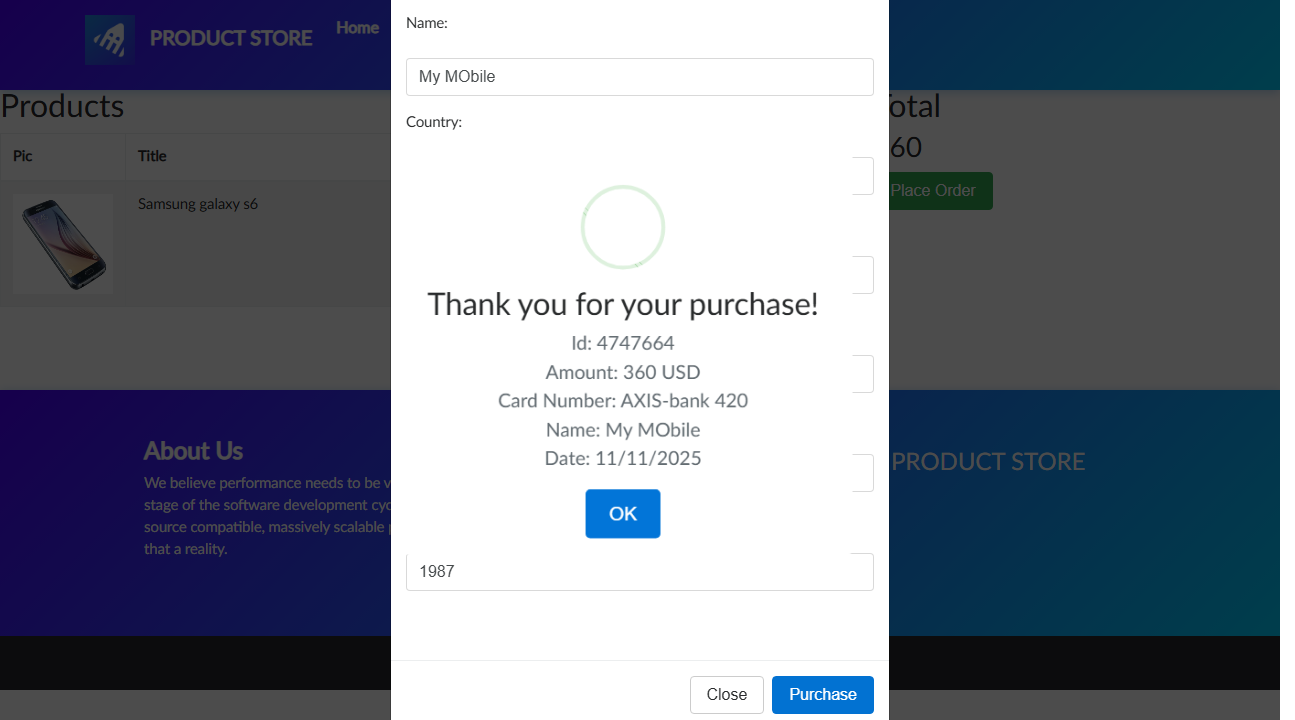
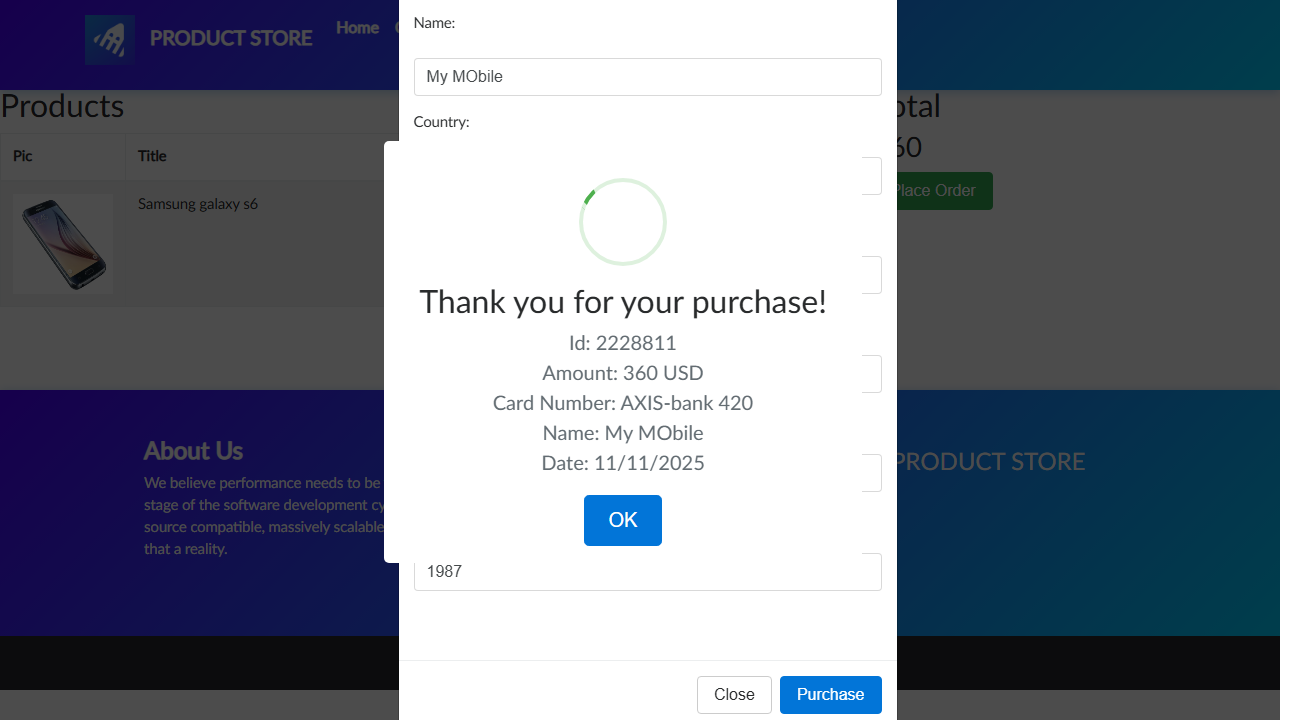
change made in officelaptop on 12/17

diff --git a/tests/Demo.spec.js b/tests/Demo.spec.js
@@ -54,14 +54,64 @@ test('DemoBlaze test', async ({ page }) => {
   await page.screenshot({ path: 'purcase-screenshot.png', fullPage: true });
 
   await page.locator(".confirm.btn.btn-lg.btn-primary").click()
-  await page.waitForTimeout(3000);
+  await page.waitForTimeout(5000);
   await page.screenshot({ path: 'afterpurcase-screenshot.png', fullPage: true });
-
-  await page.waitForTimeout(3000);
-  await page.waitForTimeout(3000);
-
 
 
 });
+
+
+test.only('Laptop Category Purchase Test', async ({ page }) => {
+
+  await page.goto('https://www.demoblaze.com/index.html');
+
+  // Login
+  await page.locator('#login2').click();
+  await page.locator('#loginusername').fill('RamShetty3');
+  await page.locator('#loginpassword').fill('123456');
+  await page.locator("button[onclick='logIn()']").click();
+  await page.waitForTimeout(2000);
+
+  // Click on "Laptops" category
+  await page.locator('.list-group-item[onclick="byCat(\'notebook\')"]').click();
+  await page.waitForTimeout(2000);
+
+  // Select first laptop
+  await page.locator('#tbodyid .card img').first().click();
+
+  // Add to cart
+  page.once('dialog', async dialog => {
+    console.log("Alert:", dialog.message());
+    await dialog.accept();
+  });
+  
+  await page.locator('.btn.btn-success.btn-lg').click();
+  await page.waitForTimeout(2000);
+
+  // Go to cart
+  await page.locator('#cartur').click();
+  await page.waitForTimeout(2000);
+
+  // Place order
+  await page.locator('.btn.btn-success').click();
+
+  // Fill form
+  await page.locator('#name').fill('Laptop User');
+  await page.locator('#country').fill('India');
+  await page.locator('#city').fill('Bangalore');
+  await page.locator('#card').fill('1234 5678 9999');
+  await page.locator('#month').fill('June');
+  await page.locator('#year').fill('2025');
+
+  // Complete purchase
+  await page.locator("button[onclick='purchaseOrder()']").click();
+
+  // Screenshot
+  await page.screenshot({ path: 'laptop-purchase.png', fullPage: true });
+
+  // Close confirmation
+  await page.locator('.confirm.btn.btn-lg.btn-primary').click();
+});
+
 
 

diff --git a/tests/flipcart.spec.js b/tests/flipcart.spec.js
@@ -24,6 +24,21 @@ test('Automate Flipkart - Search Product', async ({ page, context }) => {
   await newPage.waitForLoadState();
 
   // Wait for Add to Cart button and click
-  await newPage.locator("button[type='button']").click();
-  await newPage.waitForTimeout(5000);
+  await newPage.locator(".dSM5Ub.ugg2XR.IUmgrZ").click();
+
+  console.log(await newPage.locator("div[class='TOm_Ti VYxWdo'] span").textContent())
+
+  await newPage.waitForTimeout(1000);
+
+  await newPage.locator("input[placeholder='Search for products, brands and more']").fill("shoes")
+  await newPage.locator("svg[width='20']").click();
+ 
+
+  const [ page2 ] = await Promise.all([
+    newPage.context().waitForEvent('page'),
+    newPage.locator(".MZeksS").first().click()
+  ])
+
+  await page2.waitForTimeout(2000)
+
 });
